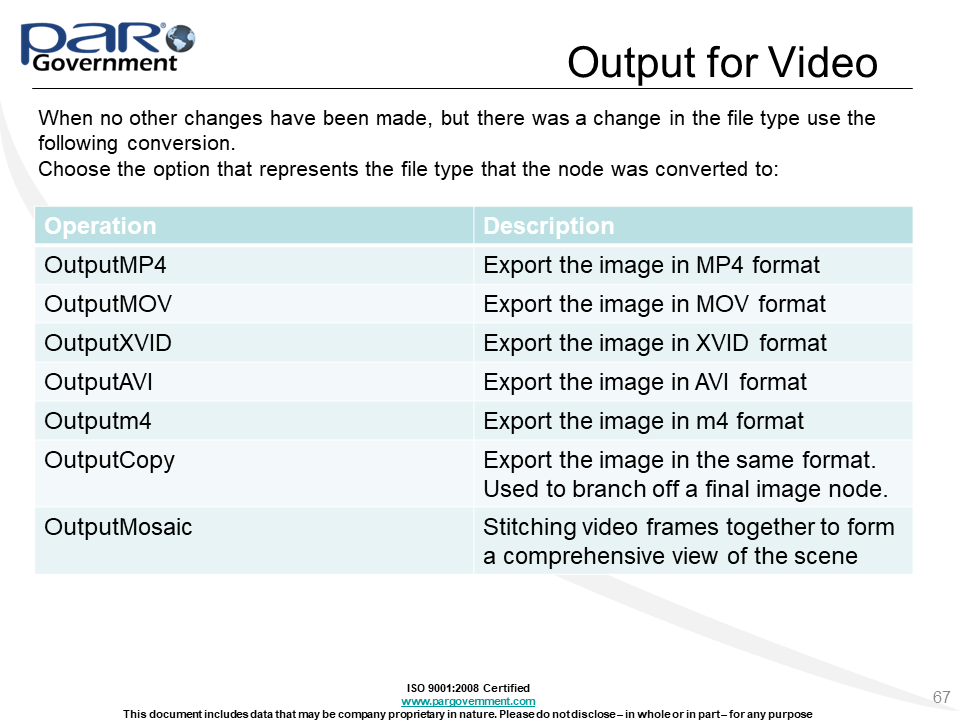
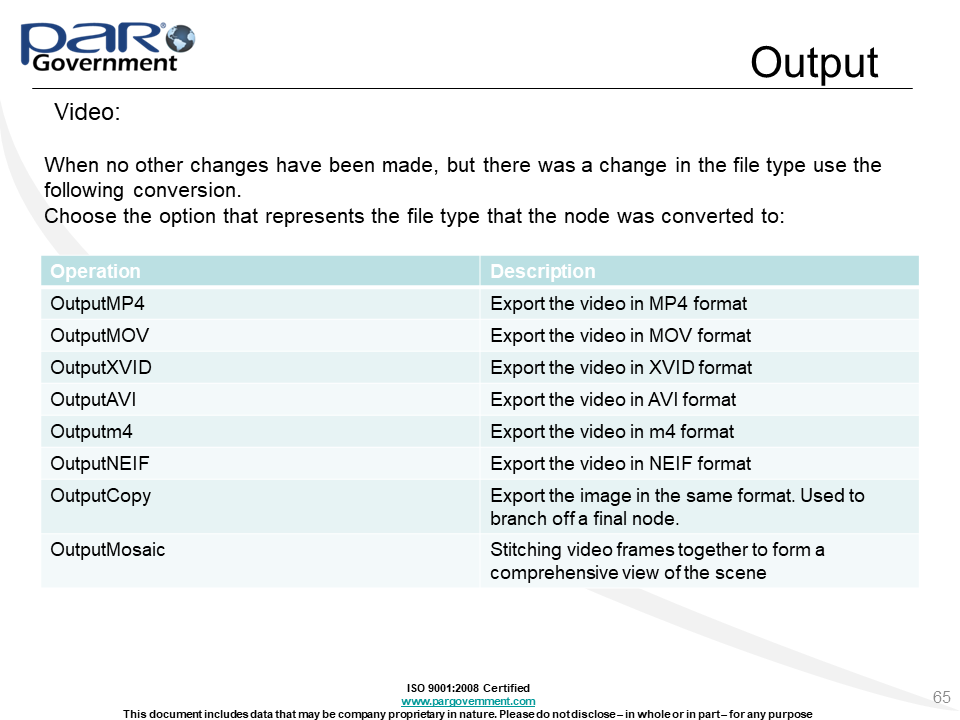
Fix Help Menu Test (#798)
Fix Help Menu test by adding slides for two operations that were missing slides, and removing an operation that no longer exists from the link file.  Also improved error message on failure due to too many operations

Changed region(s): [[0.0312, 0.1222, 0.9688, 0.825], [0.5938, 0.0611, 0.9375, 0.1222]]

diff --git a/tests/test_operations_help.py b/tests/test_operations_help.py
@@ -52,7 +52,8 @@ class TestOperationsHelp(TestSupport):
 
         self.assertTrue(missing==[], "Missing is not empty " + str(missing))
         self.assertTrue(slide == len(slides), "Slides Online doesn't match with the number of slides in the JT")
-        self.assertTrue(len(data["operation"]) == 0, "There are extra operation(s) in the help section")
+        self.assertTrue(len(data["operation"]) == 0, "There are extra operation(s) in the help section: " +
+                        ", ".join(data["operation"].keys()))
 
         self.remove_files()
 
